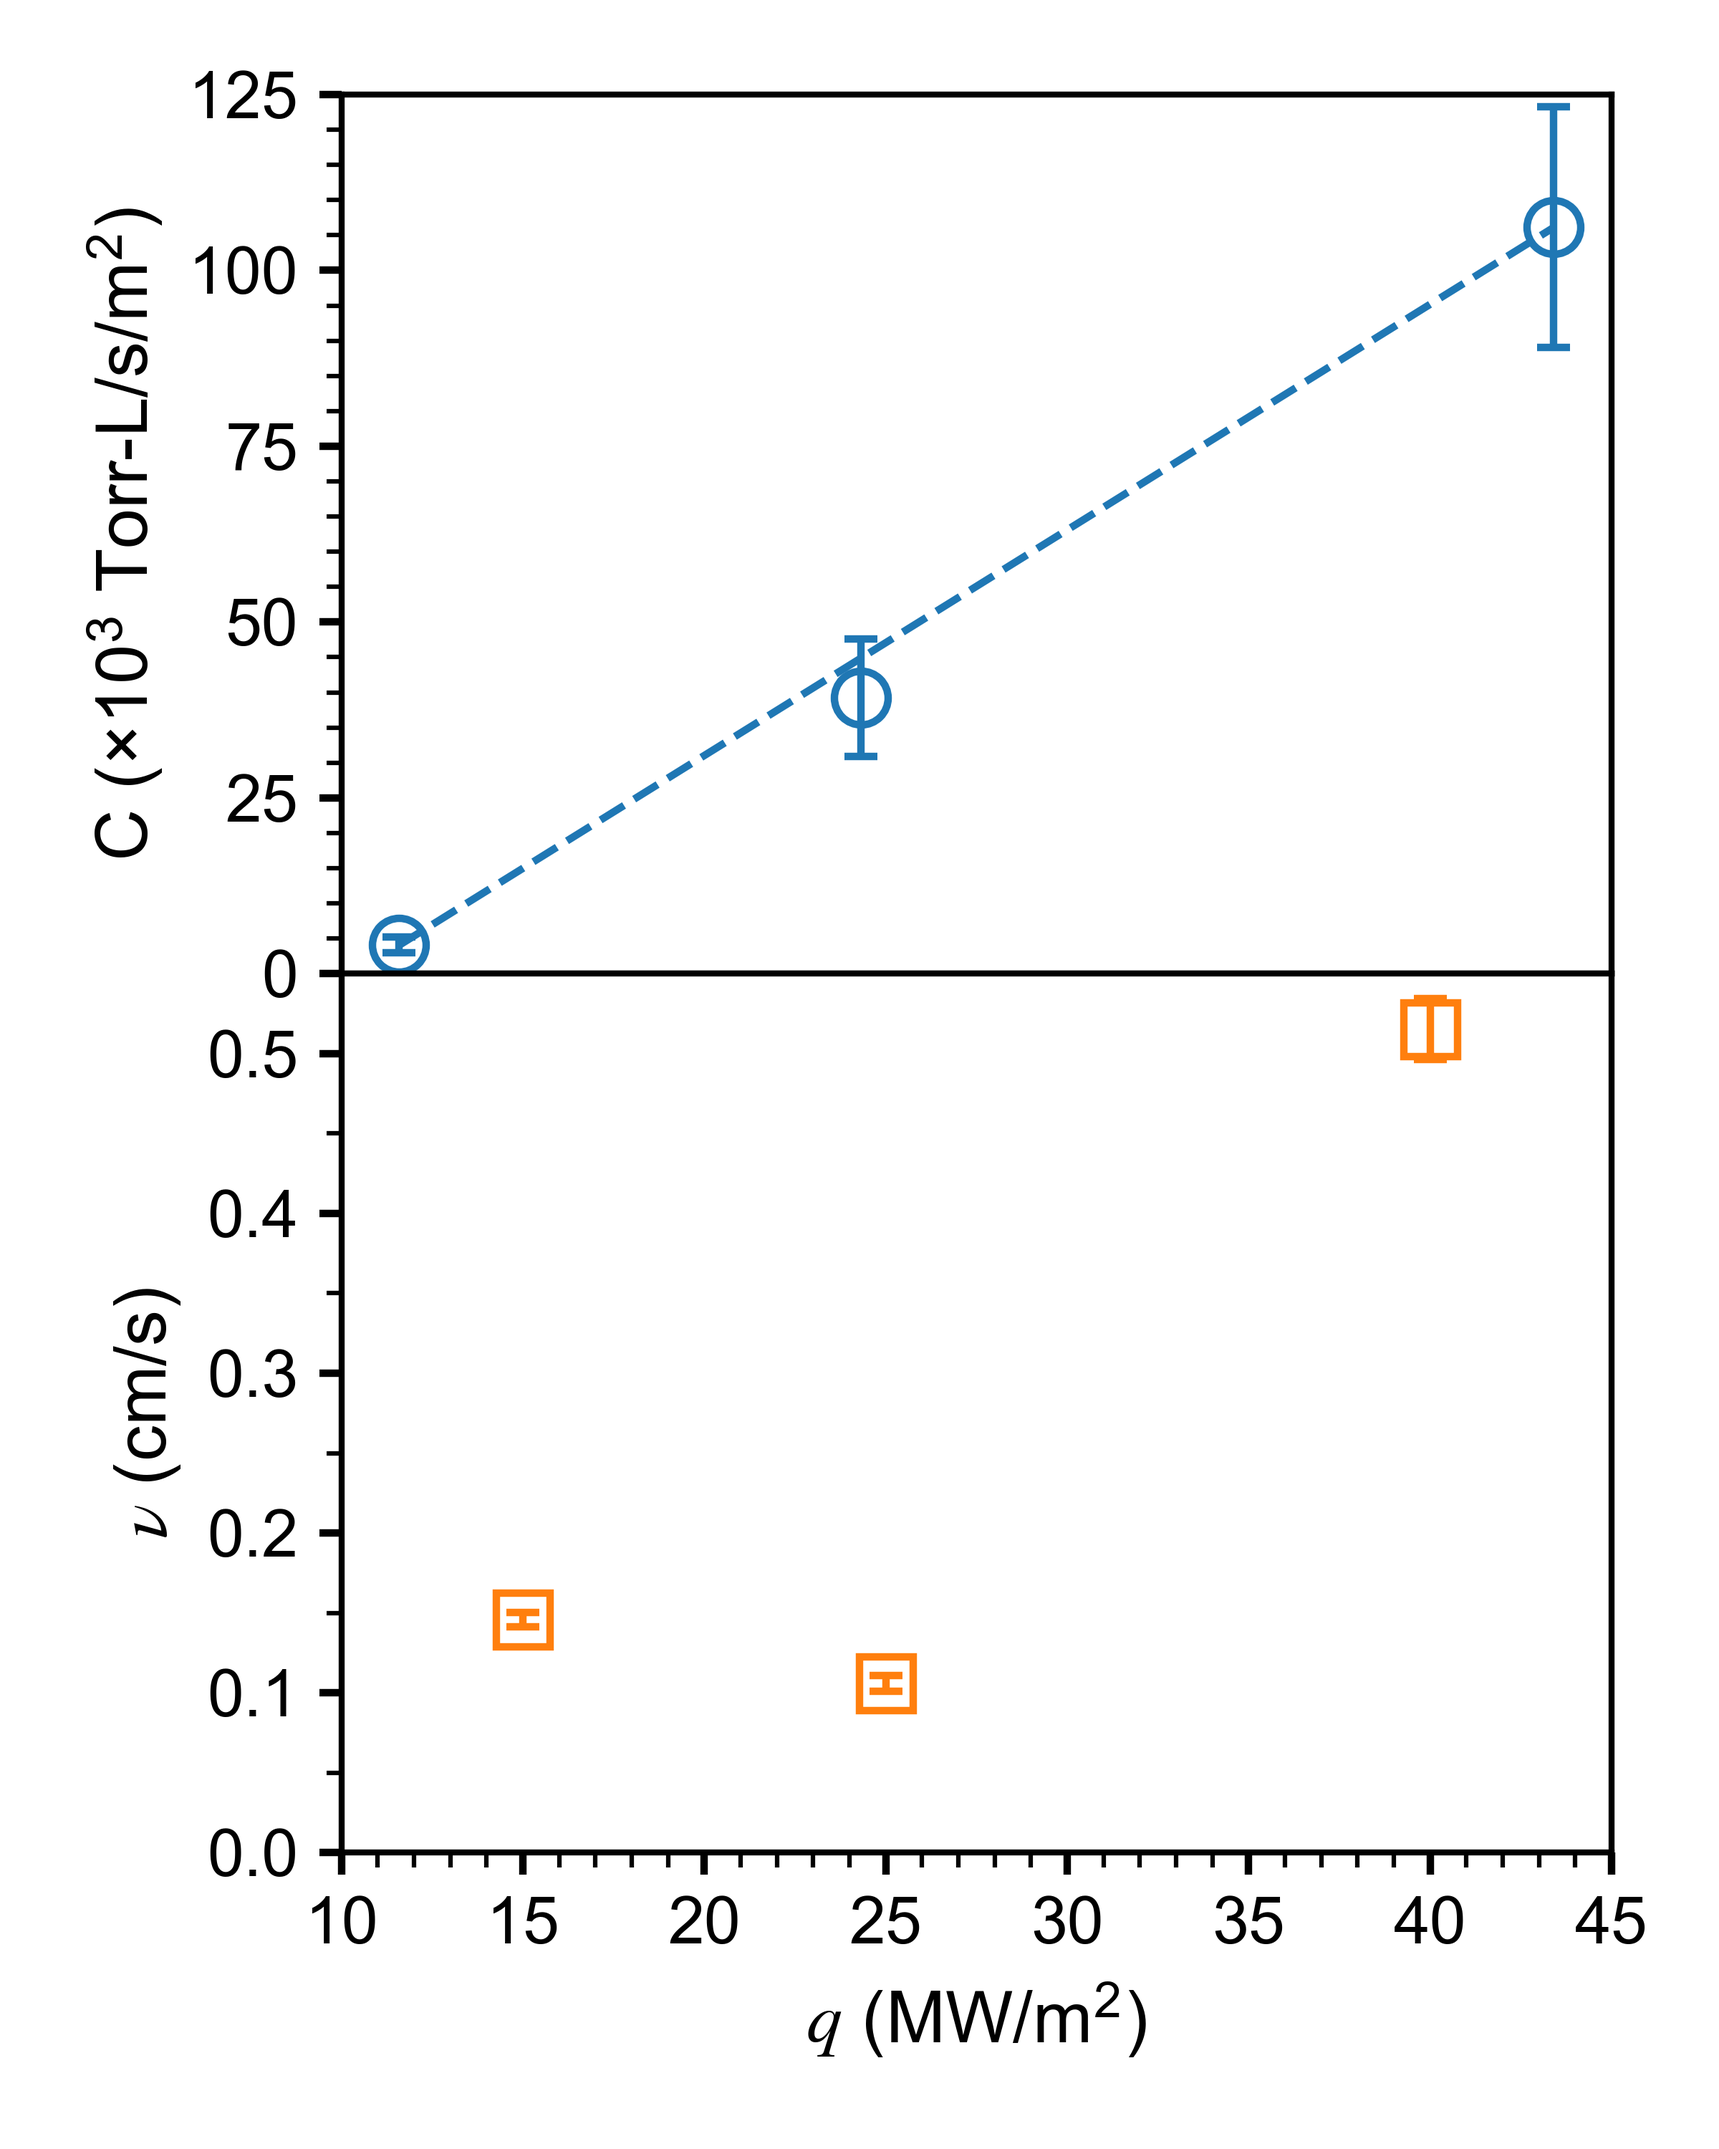
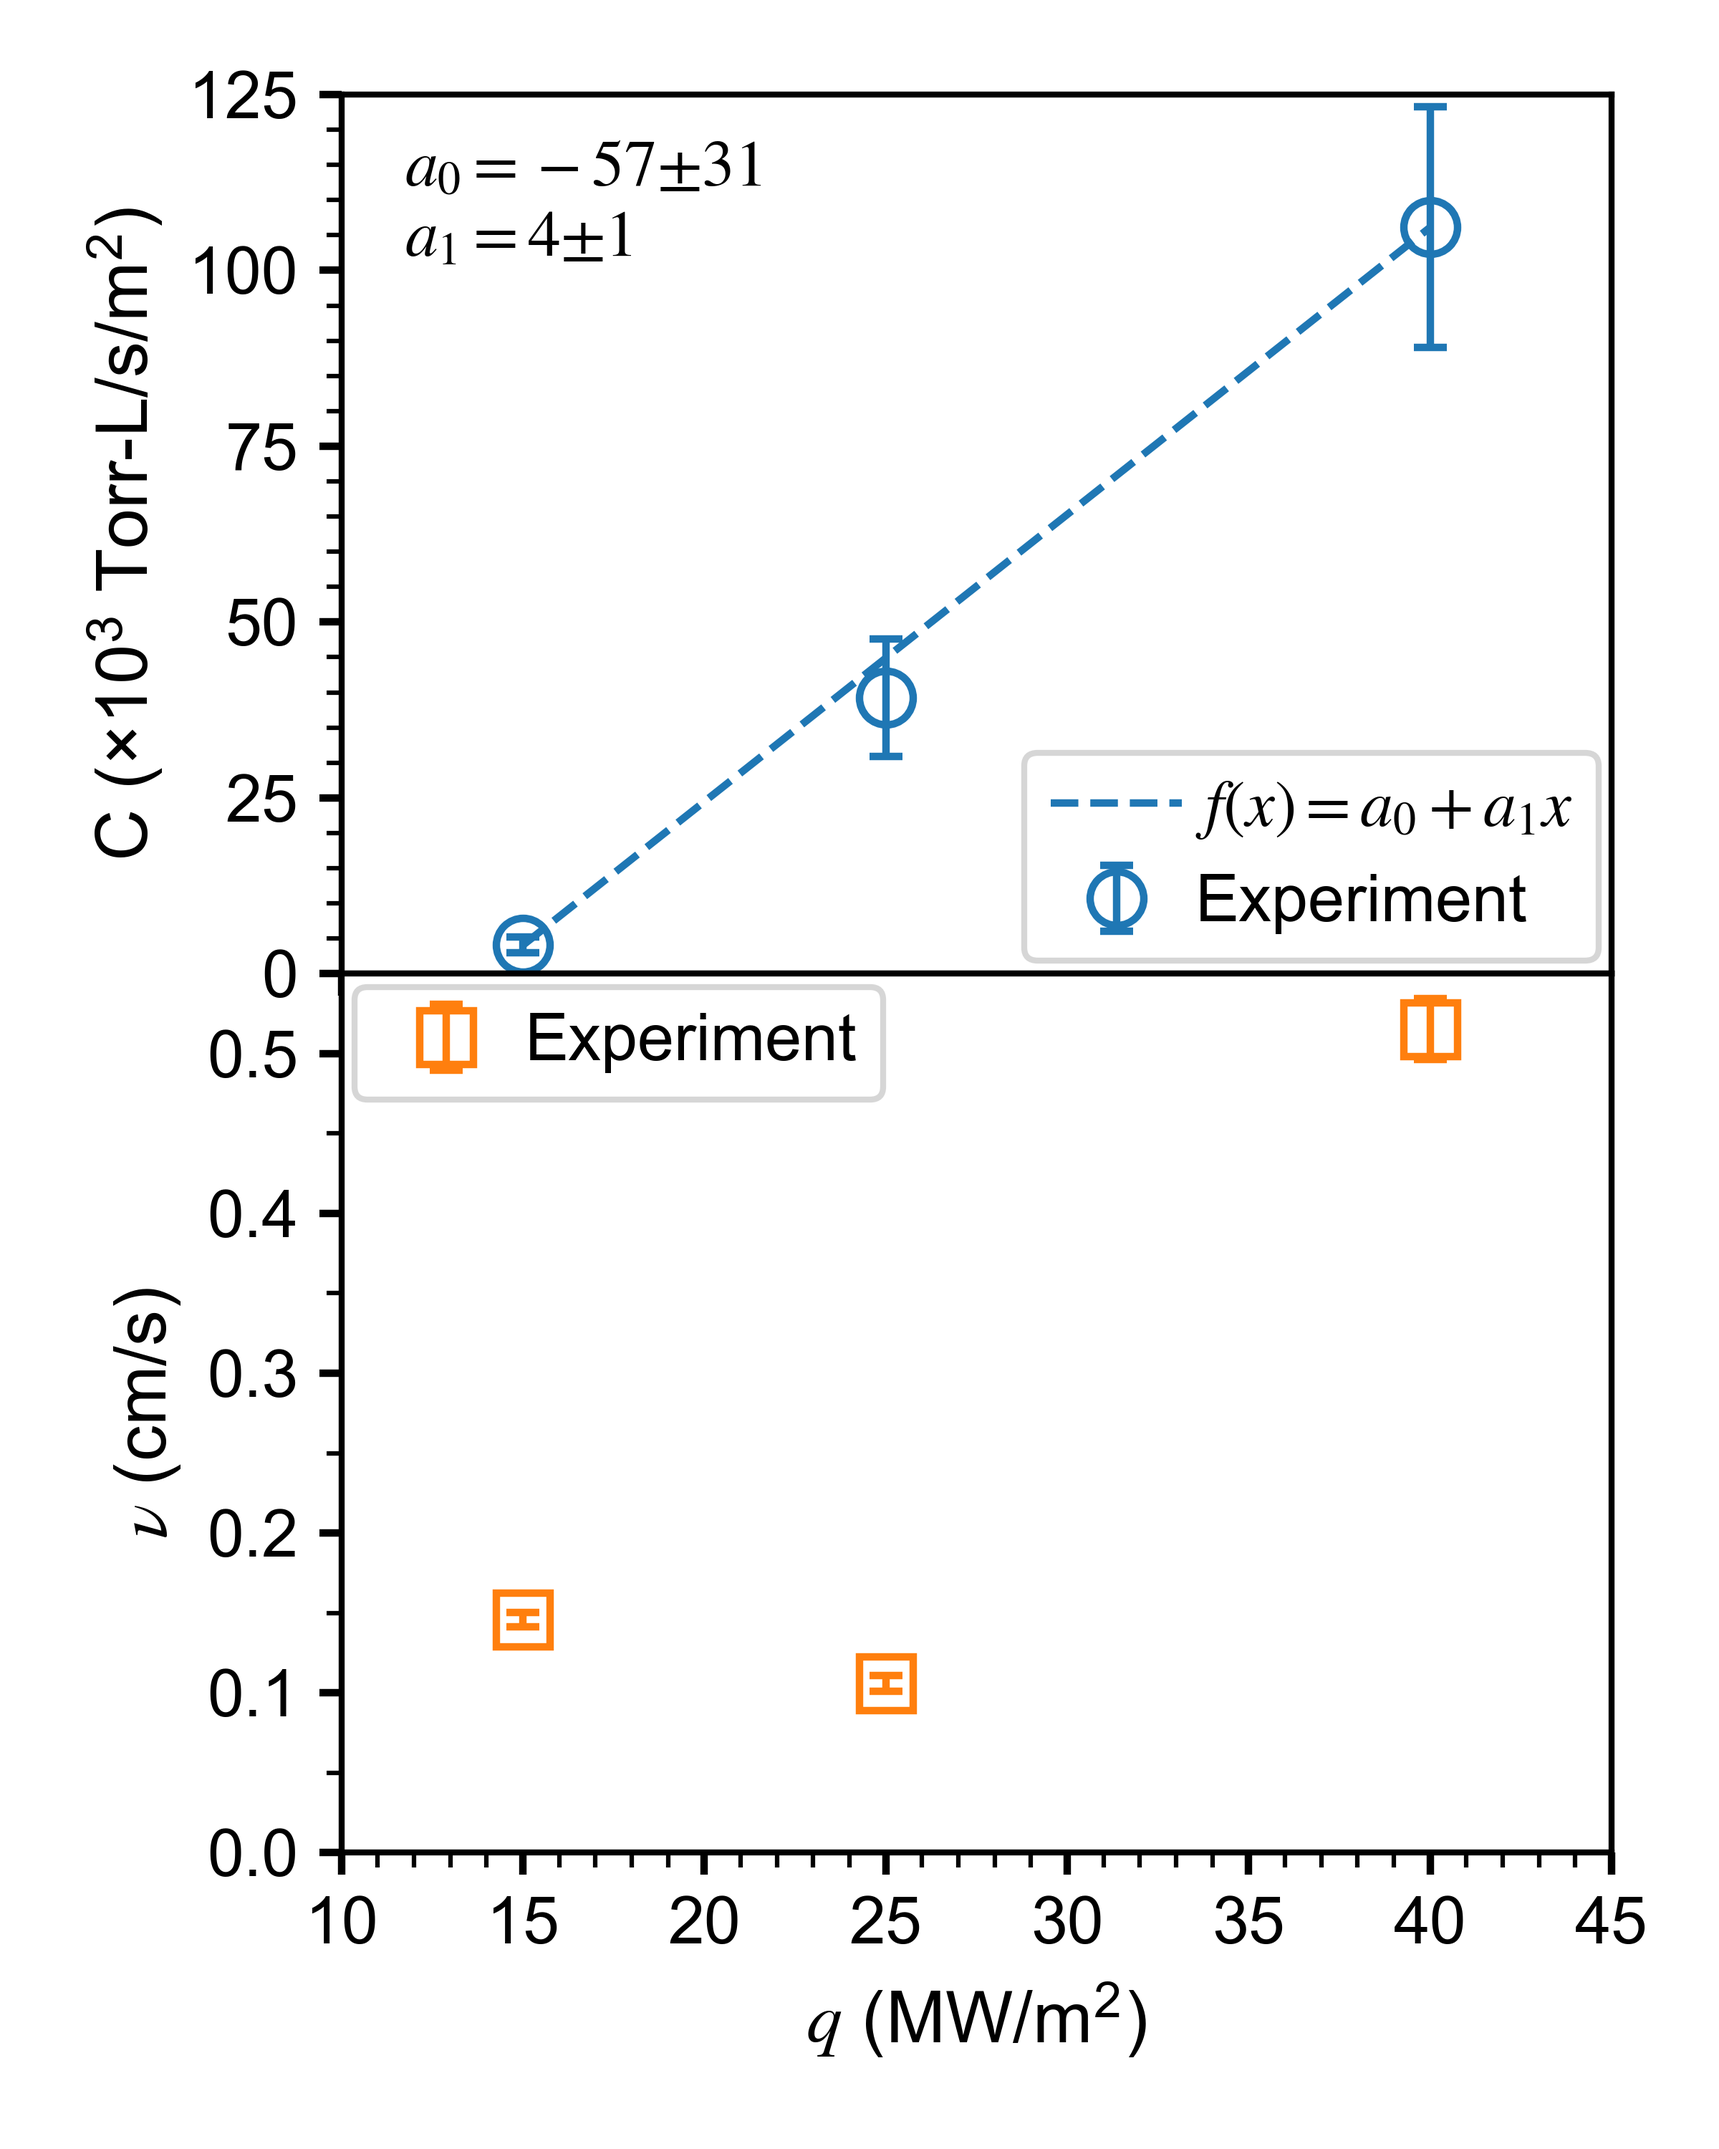
diiid carbon emission

diff --git a/data_processing/2024/diiid_carbon_emission_157.py b/data_processing/2024/diiid_carbon_emission_157.py
@@ -108,10 +108,11 @@ def main():
         color='C0', marker='o',
         ms=9, mew=1.25, mfc='none', ls='none',
         capsize=2.75, elinewidth=1.25, lw=1.5,
+        label='Experiment'
     )
 
     axes[0].plot(
-        x_pred, ypred, color='C0', lw=1.25, ls='--'
+        x_pred, ypred, color='C0', lw=1.25, ls='--', label=r'$f(x) = a_0 + a_1 x $'
     )
 
     axes[1].errorbar(
@@ -120,9 +121,36 @@ def main():
         color='C1', marker='s',
         ms=9, mew=1.25, mfc='none', ls='none',
         capsize=2.75, elinewidth=1.25, lw=1.5,
+        label='Experiment'
+    )
+
+    popt = res.x
+    pcov = cf.get_pcov(res)
+    ci = cf.confidence_interval(res)
+    delta = np.abs(ci[:, 1] - popt)
+    fit_txt = ''
+    poly_n = len(popt)
+    for i in range(poly_n):
+        fit_txt += fr'$a_{{{i}}} = {popt[i]:.0f} ± {delta[i]:.0f}$'
+        if i + 1 < poly_n:
+            fit_txt += '\n'
+
+    ax1.text(
+        0.05, 0.95, fit_txt,
+        transform=ax1.transAxes,
+        ha='left', va='top'
+    )
+
+    axes[0].legend(
+        loc='lower right', frameon=True
+    )
+
+    ax2.legend(
+        loc='upper left', frameon=True
     )
 
     ax1.tick_params(axis='x', labelbottom=False)
+    ax1.set_xlim(10, 45)
     ax2.set_xlim(10, 45)
     ax1.set_ylim(0, 125)
     ax2.set_ylim(0, 0.55)
